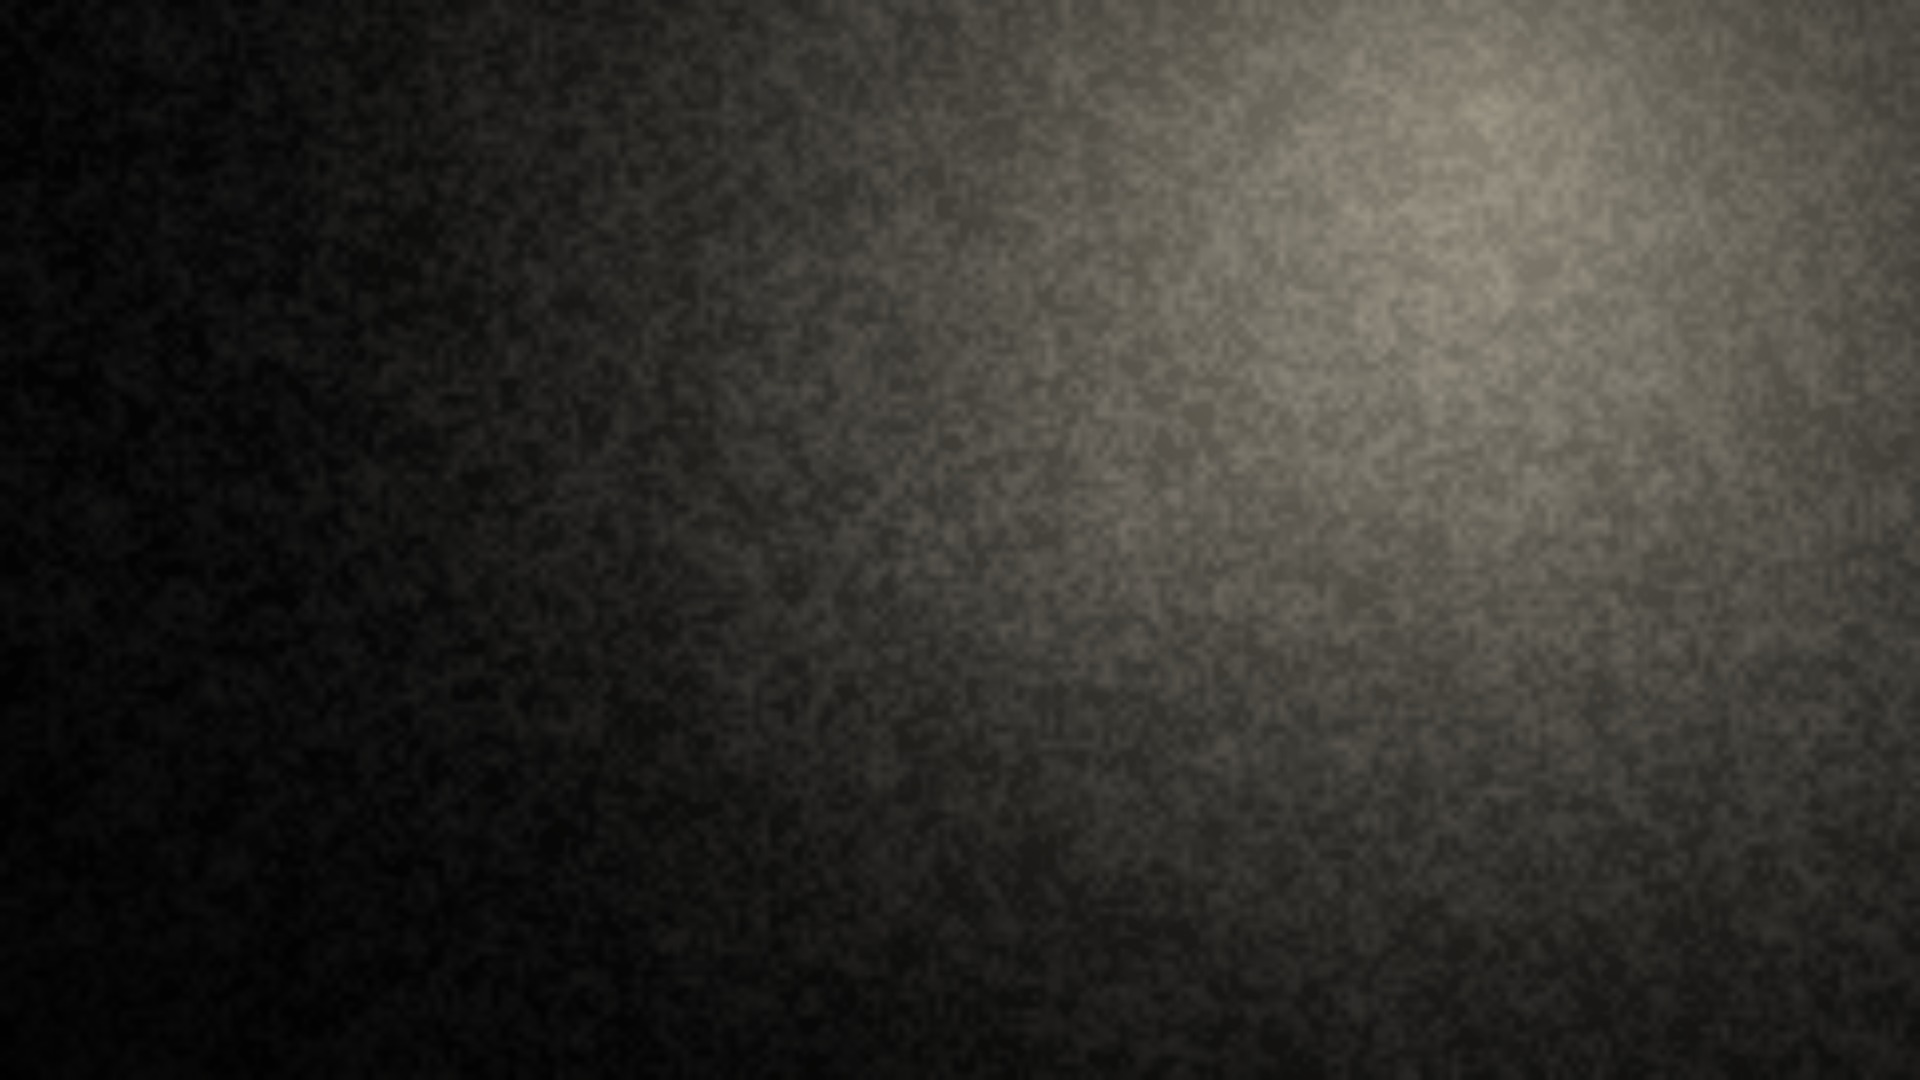
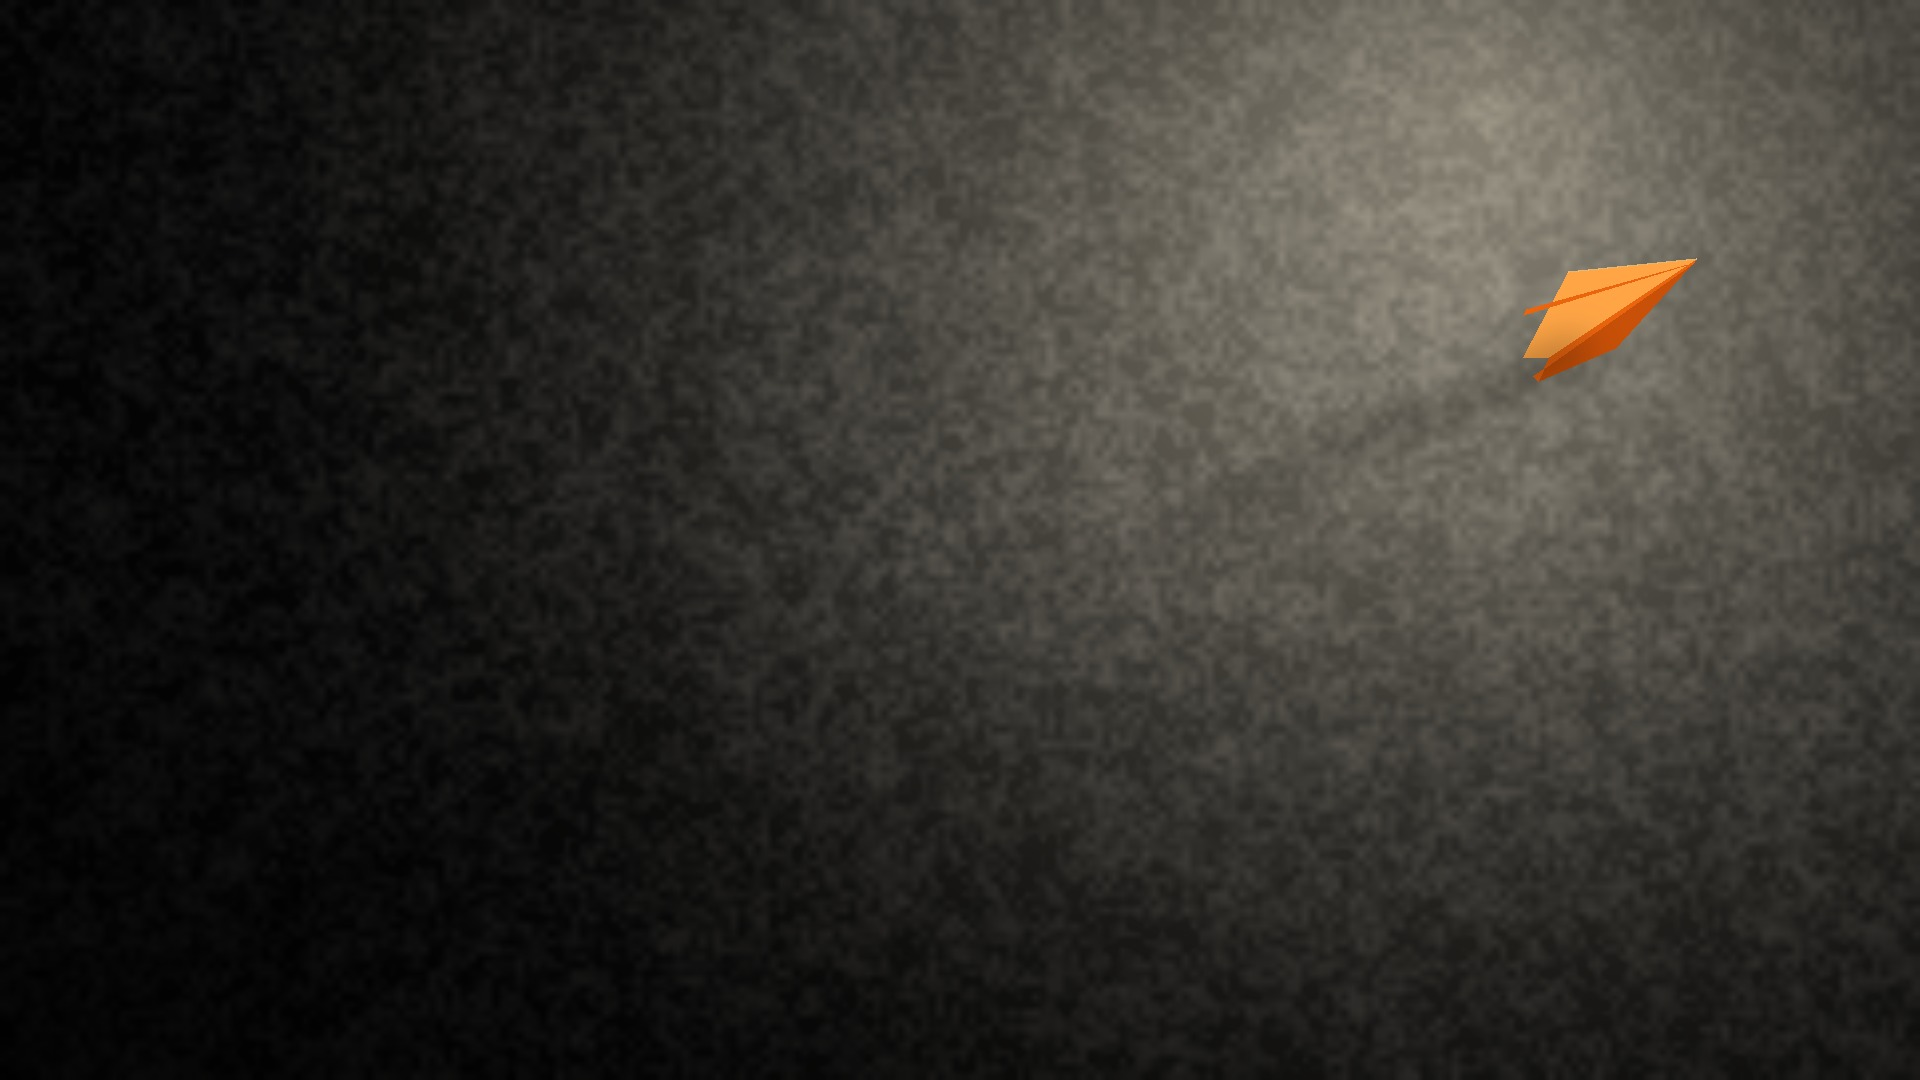
Add orange paper plane to background image
Draws a 3D-faceted orange paper plane (#F97316) in the upper-right
quadrant with a long soft-blurred cast shadow sweeping to lower-left,
matching the original photo composition.

https://claude.ai/code/session_01UuZLNaF8PKa5qE5uMGvFoN

Changed region(s): [[0.7812, 0.2444, 0.875, 0.3667]]

diff --git a/gen_background.py b/gen_background.py
@@ -88,5 +88,100 @@ base[:, :, 2] = np.clip(base[:, :, 2] * (1 - vignette), 0, 255)
 result = Image.fromarray(base.astype(np.uint8), "RGB")
 result = result.filter(ImageFilter.GaussianBlur(radius=0.8))
 
+# ── Draw orange paper plane (upper-right, ~30° launch angle) ─────────────────
+import math
+
+draw = ImageDraw.Draw(result, "RGBA")
+
+# Plane origin (nose tip) — upper-right quadrant
+px, py = int(W * 0.835), int(H * 0.295)
+
+# Scale and rotation: plane flies toward upper-right at ~30° above horizontal
+angle_deg = -32   # negative = tilted upward-right
+angle = math.radians(angle_deg)
+cos_a, sin_a = math.cos(angle), math.sin(angle)
+scale = 110  # overall size
+
+def rot(x, y):
+    """Rotate point (x,y) around origin then offset to plane position."""
+    rx = x * cos_a - y * sin_a
+    ry = x * sin_a + y * cos_a
+    return (px + rx, py + ry)
+
+# ── Plane surface colors ──
+orange_main  = (249, 115, 22, 255)   # #F97316
+orange_dark  = (200,  80,  8, 255)   # shadow face
+orange_mid   = (235, 100, 14, 255)   # mid tone
+orange_light = (255, 165, 70, 255)   # highlight edge
+
+# Geometry (in local coords, nose at origin, body extends left)
+# The plane is roughly: nose → body → tail, with upper + lower wings
+
+# --- Top wing (upper panel, lit face) ---
+top_wing = [
+    rot(  scale,        0),           # nose tip
+    rot( -scale * 0.05, -scale * 0.52),  # top wing peak
+    rot( -scale * 0.80, -scale * 0.08),  # tail top
+    rot( -scale * 0.60,  scale * 0.05),  # body spine
+]
+draw.polygon(top_wing, fill=orange_light)
+
+# --- Bottom wing (lower panel, shadow face) ---
+bot_wing = [
+    rot(  scale,        0),           # nose tip
+    rot( -scale * 0.60,  scale * 0.05),  # body spine
+    rot( -scale * 0.80,  scale * 0.18),  # tail bottom
+    rot( -scale * 0.05,  scale * 0.30),  # bottom wing tip
+]
+draw.polygon(bot_wing, fill=orange_dark)
+
+# --- Centre body spine (narrow bright crease) ---
+spine = [
+    rot(  scale,        0),
+    rot(  scale - 4,    2),
+    rot( -scale * 0.80 - 2,  scale * 0.12),
+    rot( -scale * 0.80,      scale * 0.18),
+    rot( -scale * 0.60,      scale * 0.05),
+]
+draw.polygon(spine, fill=orange_mid)
+
+# --- Fold crease on top wing ---
+crease_top = [
+    rot(  scale * 0.9,   0),
+    rot(  scale * 0.85, -2),
+    rot( -scale * 0.55, -scale * 0.44),
+    rot( -scale * 0.60, -scale * 0.40),
+]
+draw.polygon(crease_top, fill=orange_mid)
+
+# --- Thin highlight along top leading edge ---
+draw.line([rot(scale, 0), rot(-scale * 0.05, -scale * 0.52)],
+          fill=(255, 200, 120, 200), width=2)
+
+# ── Long cast shadow on the surface below the plane ──────────────────────────
+# The shadow is a soft dark trapezoid sweeping lower-left from the plane
+shadow_layer = Image.new("RGBA", (W, H), (0, 0, 0, 0))
+sdraw = ImageDraw.Draw(shadow_layer)
+
+# Shadow tip starts just below the plane, sweeps far lower-left
+sh_tip_x, sh_tip_y = px - int(scale * 0.2 * cos_a), py + int(scale * 0.2 * abs(sin_a)) + 20
+sh_far_x = int(W * 0.09)
+sh_far_y = int(H * 0.88)
+
+# Width of shadow: narrow at plane, wide at far end
+perp_dx, perp_dy = sin_a, -cos_a   # perpendicular to flight direction
+half_near, half_far = 12, 85
+
+sh_poly = [
+    (sh_tip_x + perp_dx * half_near, sh_tip_y + perp_dy * half_near),
+    (sh_tip_x - perp_dx * half_near, sh_tip_y - perp_dy * half_near),
+    (sh_far_x - perp_dy * half_far,  sh_far_y + perp_dx * half_far),
+    (sh_far_x + perp_dy * half_far,  sh_far_y - perp_dx * half_far),
+]
+sdraw.polygon(sh_poly, fill=(0, 0, 0, 110))
+# Blur the shadow for soft edge
+shadow_layer = shadow_layer.filter(ImageFilter.GaussianBlur(radius=18))
+result = Image.alpha_composite(result.convert("RGBA"), shadow_layer).convert("RGB")
+
 result.save("background.jpg", quality=92, optimize=True)
 print(f"Saved background.jpg  ({W}x{H})")
